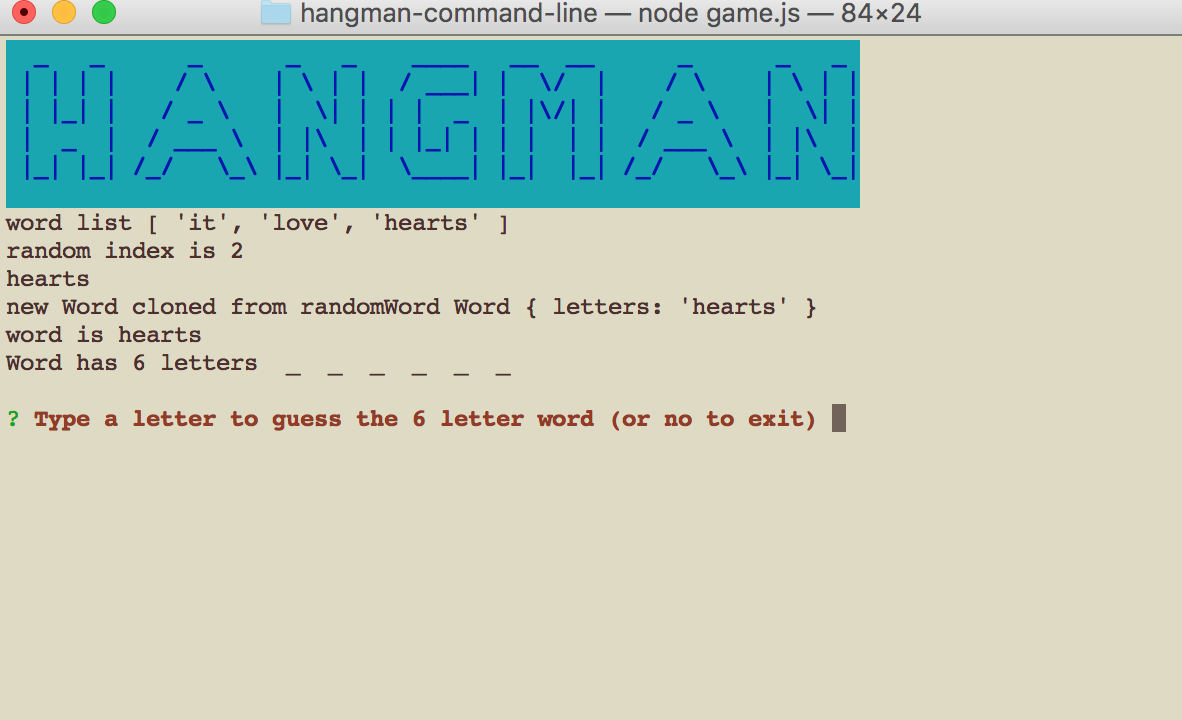
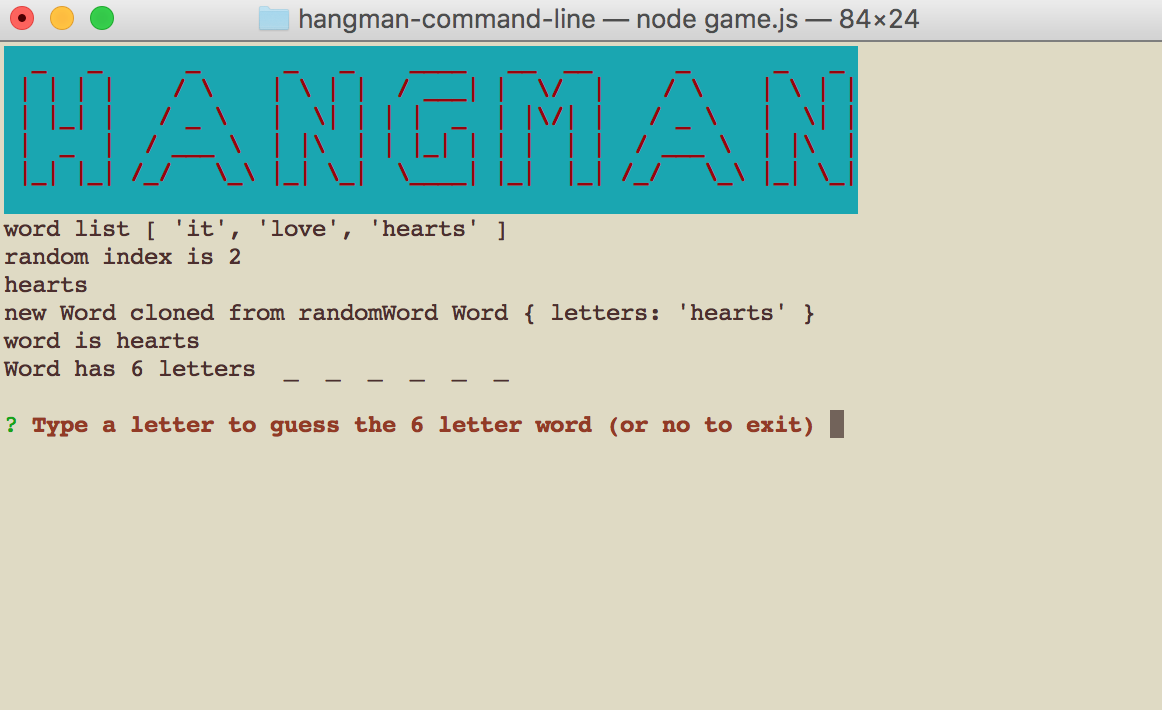
more logic

Changed region(s): [[0.0, 0.0, 1.0, 0.5268], [0.0, 0.5577, 0.7435, 0.6197], [0.5886, 0.4028, 0.7126, 0.4648]]

diff --git a/game.js b/game.js
@@ -13,7 +13,7 @@ var figlet      = require('figlet');
 
 clear();
 console.log(
-  chalk.blue.bgCyan.bold(
+  chalk.red.bgCyan.bold(
     figlet.textSync('HANGMAN', { horizontalLayout: 'full' })
   )
 );

diff --git a/README.md b/README.md
@@ -10,17 +10,17 @@ The app pics a random word from a word list and the number of letters is display
 - JavaScript 
 - node.js 
 - npm modules used:<br>
-**inquirer** used to prompt user and get input response
-**chalk** used to change background color
-**clear** used to have the ability to clear the screen
+**inquirer** used to prompt user and get input response<br>
+**chalk** used to change Logo text and background color<br>
+**clear** used to have the ability to clear the screen<br>
 **figlet** used to create big graphic "HANGMAN" Logo letters
 
 ## Built With:
 * Sublime Text
 
 ## Links: 	
-- https://ivonnek.github.io/hangman-command-line/
-- https://github.com/IvonneK/hangman-command-line<br>
+- https://ivonnek.github.io/hangman-command-line/<br>
+- https://github.com/IvonneK/hangman-command-line/
 
 
 ## Author: 
